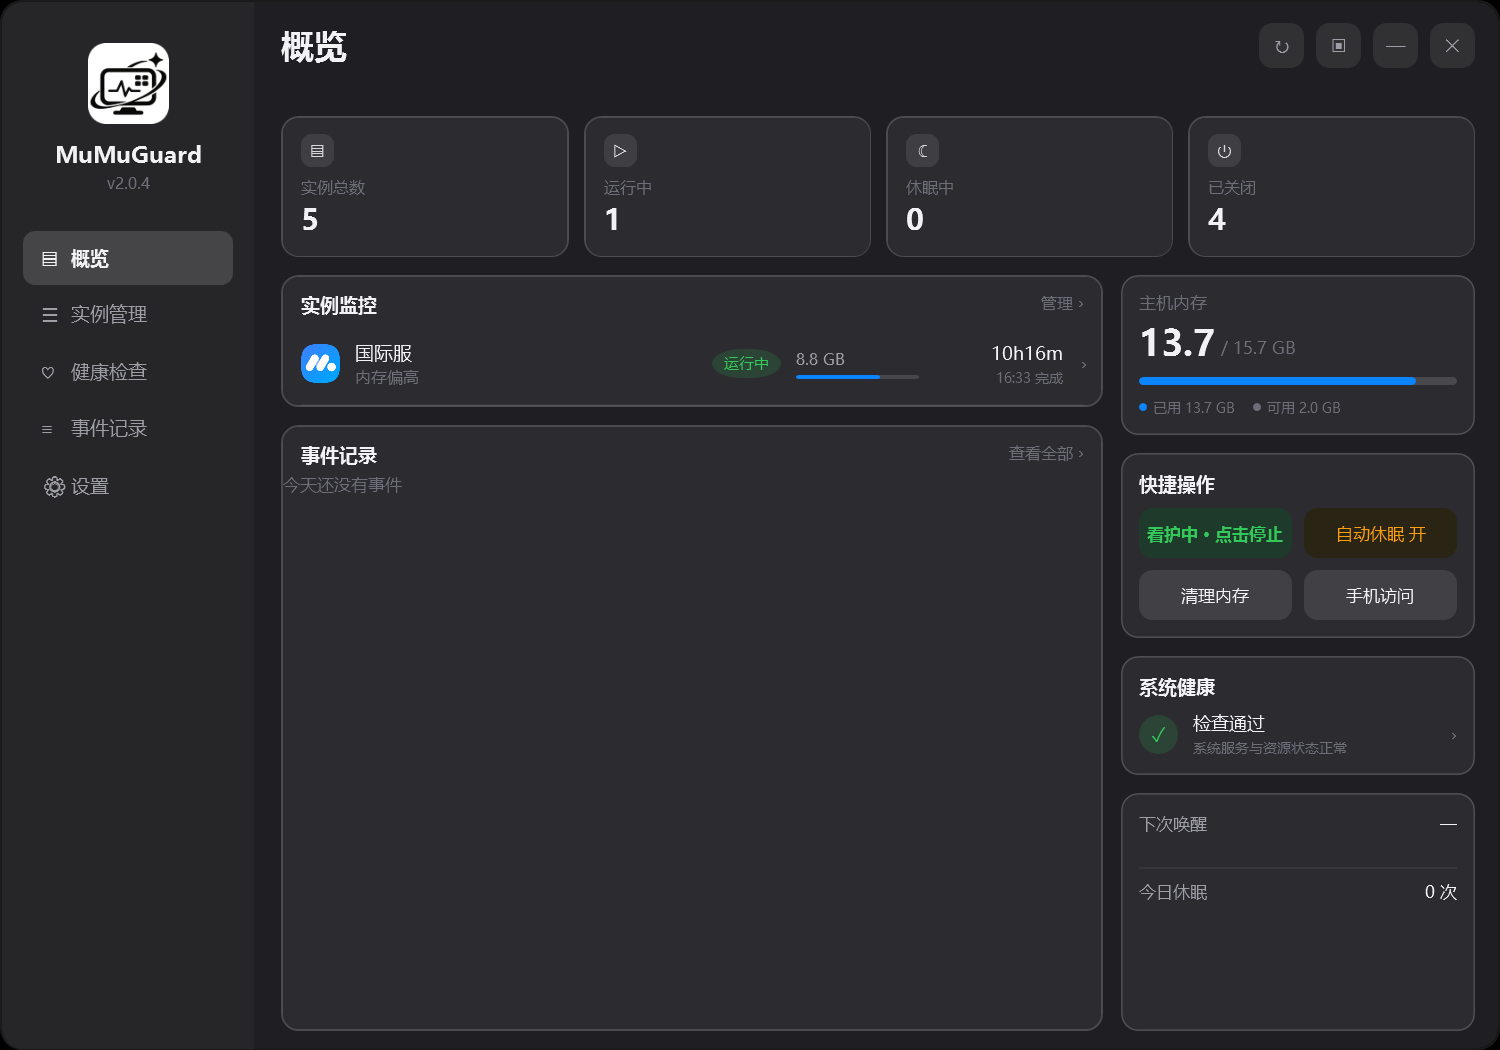
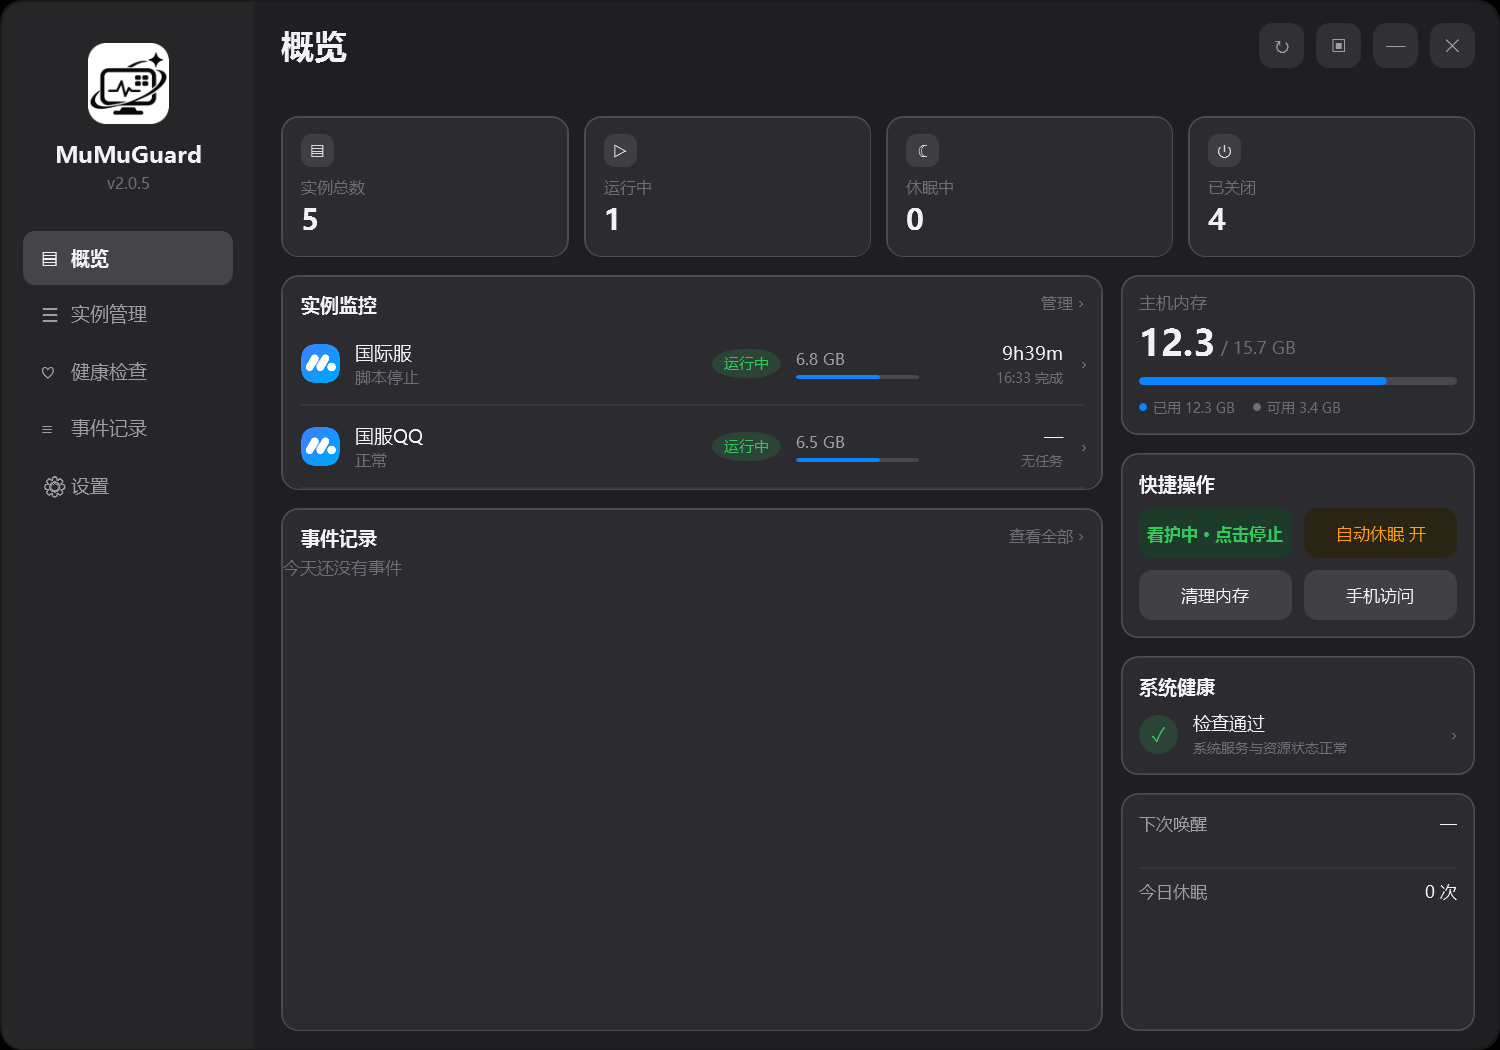
修复「唤醒/启动」按钮完全无效：Start-Instance 与 Remove-SleepEntry 从来没定义过（调用被 try/catch 吞掉）；补上并实机验证，去掉失效的 Load-OpState 调用。版本升 2.0.5

diff --git a/README.md b/README.md
@@ -4,7 +4,7 @@
 
 盯着每个实例，掉线自动拉起，等升级时休眠省内存，醒来自动接着跑。
 
-![版本](https://img.shields.io/badge/version-2.0.4-3DDC84)
+![版本](https://img.shields.io/badge/version-2.0.5-3DDC84)
 ![平台](https://img.shields.io/badge/platform-Windows%2010%20%7C%2011-0A0D14)
 ![许可](https://img.shields.io/badge/license-MIT-blue)
 ![QQ 群](https://img.shields.io/badge/QQ%E7%BE%A4-1128379535-12B7F5)
